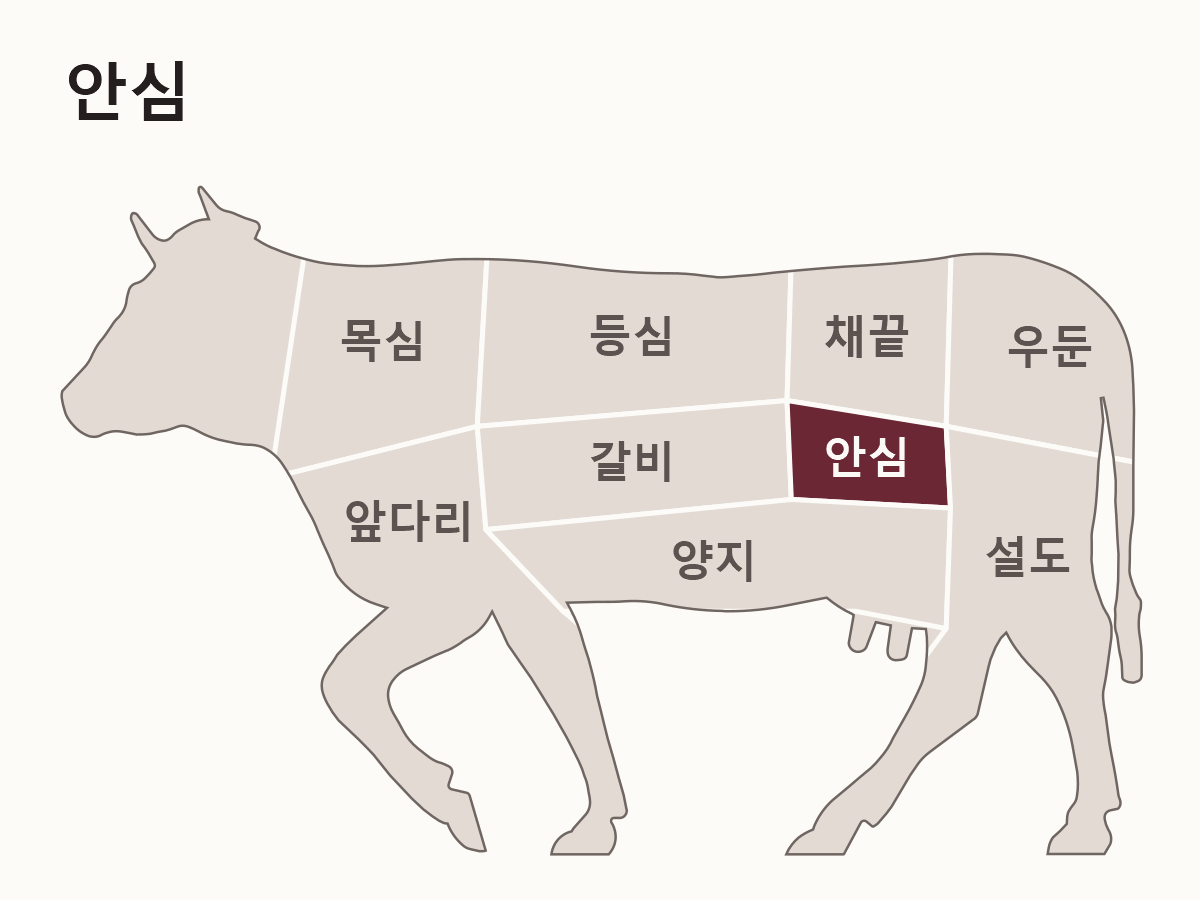
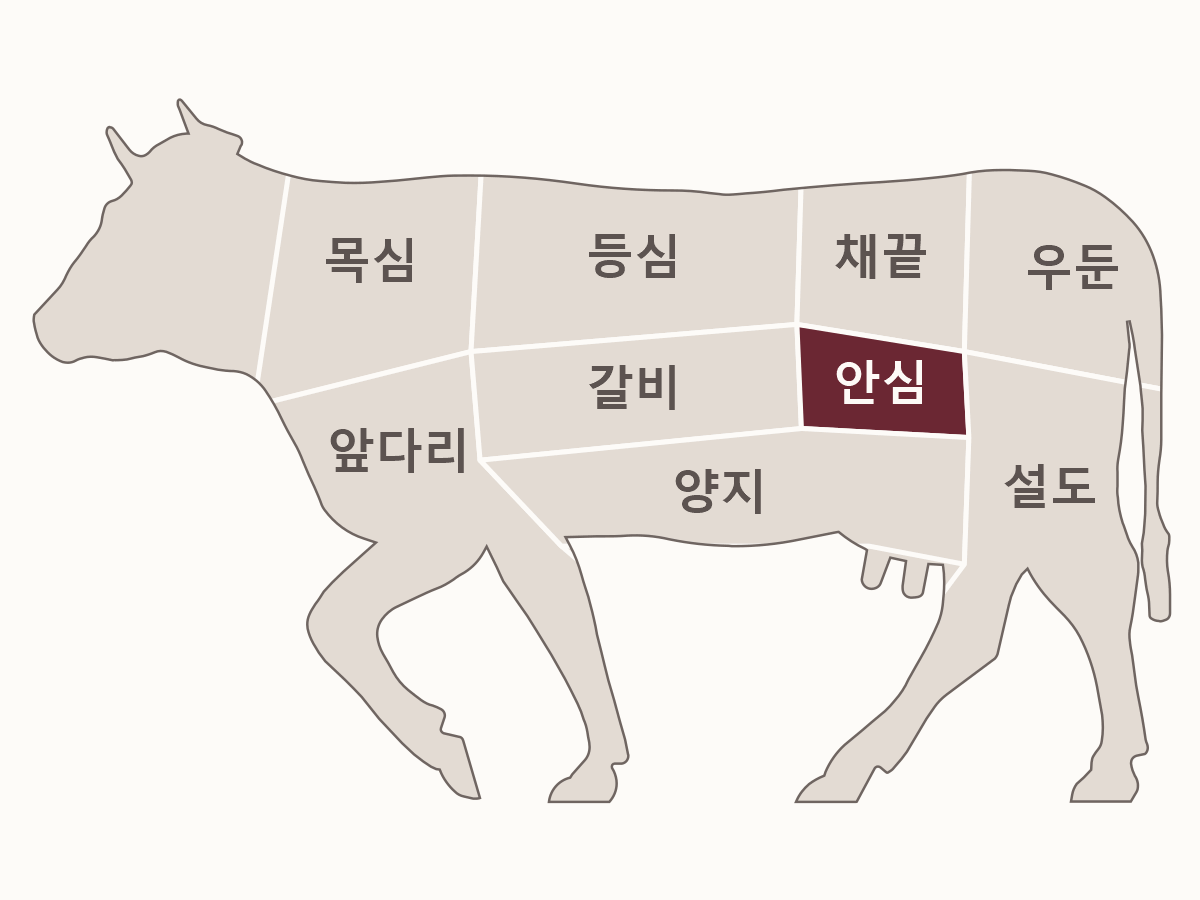
fix: 그림에서 제목 제거, 실루엣 확대

Changed region(s): [[0.0308, 0.0622, 0.9867, 0.9644]]

diff --git a/meat-b2c/cut/출처.md b/meat-b2c/cut/출처.md
@@ -14,9 +14,9 @@
 | 저작자 | Wikimedia Commons User:Abu badali |
 | 라이선스 | 퍼블릭 도메인 — 저작자가 조건 없이 공개(worldwide). 표시·출처 명기 의무 없음 |
 | 확인한 날 | 2026-09-18 |
-| 우리가 고친 것 | 편집기 메타데이터를 떼고 path 하나만 남겼다. 좌표를 소수점 두 자리로 줄였다 — 원본과 같은 크기(511×454)로 나란히 구워 픽셀을 세어 보니 232,000여 화소 중 6화소만 달랐고 전부 경계의 안티에일리어싱이었다(ImageMagick compare -metric AE, 2026-09-18). |
+| 우리가 고친 것 | 편집기 정보를 떼고 선 하나만 남겼습니다. 소수점 자리를 줄여 파일을 가볍게 했고 모양은 원본 그대로입니다 — 원본과 같은 크기로 나란히 그려 대조하니 23만여 화소 중 6화소만 달랐고 전부 선 가장자리였습니다. |
 
-> 우리가 그린 소는 소로 읽히지 않았다 — 몸통이 얕고 다리가 길어 비례가 반대였다. 도해의 값어치는 그림 솜씨가 아니라 '어디가 어디인가' 를 보여 주는 데 있고, 실루엣은 공개된 것을 쓰면 된다. 조건 없는 퍼블릭 도메인이라 고객사가 상업적으로 쓰는 데 걸리는 것이 없다.
+> 조건 없는 퍼블릭 도메인이라 상업적 이용에 제한이 없습니다. 가져온 것은 소 모양뿐이고, 부위를 나눈 선과 부위 이름은 한우 대분할 기준으로 우리가 그렸습니다 — 외국 부위도는 한우와 구분이 다릅니다.
 
 ---
 
